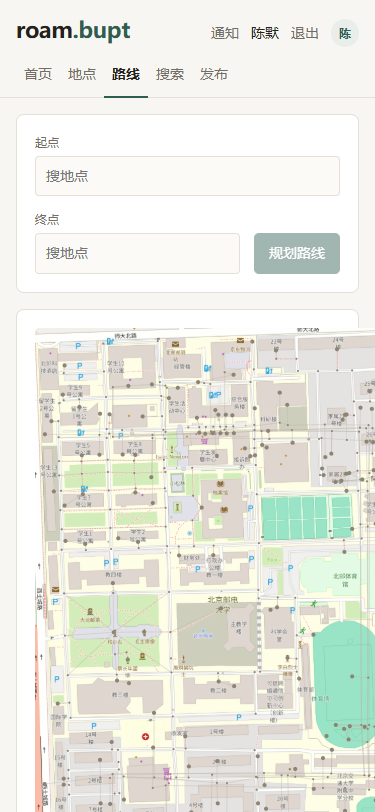
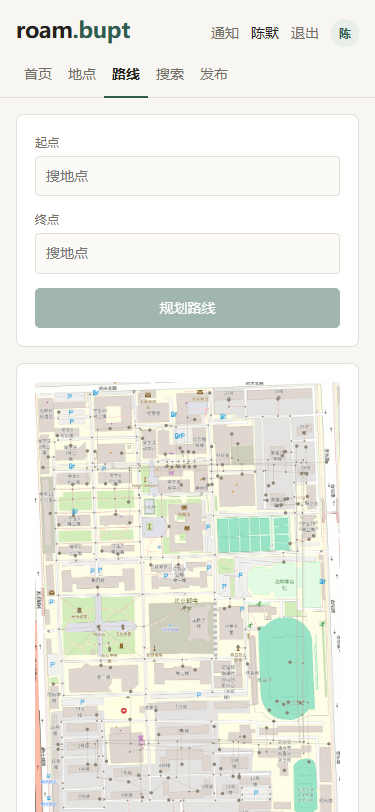
docs: 走查与测试记录 + 3 条待办
两个子代理（用户视角、测试视角）的发现按等级归档，标注已修/未修与验证证据；
未修项进实现清单 R9–R11。

diff --git a/docs/走查与测试记录.md b/docs/走查与测试记录.md
@@ -1,0 +1,61 @@
+# 走查与测试记录（2026-11-23）
+
+两个独立视角在 VM 部署环境（`d7a6987`）上做的走查与测试，以及之后的修复。
+
+## 一、测试人员（bug-hunter）发现
+
+| 等级 | 问题 | 状态 |
+|---|---|---|
+| high | 登录限流可用 `X-Forwarded-For` 绕过（nginx 追加、backend 直连可伪造） | ✅ 已修：nginx 覆盖 XFF；backend 不再对外发布端口 |
+| medium | 作者看自己的待审帖，点赞/评论/路线报「帖子不存在」 | ✅ 已修：路线接口对作者放行；页面隐藏互动入口并提示「审核中」 |
+| medium | 挂 7–9 个地点的帖子，路线必然 400（发帖上限 9、寻路上限 6） | ✅ 已修：寻路上限统一为 9 |
+| medium | DRAFT 草稿卡死：不能发布、不能删除 | ✅ 已修：状态机允许 DRAFT→PENDING/ONLINE/DELETED |
+| medium | `GET /posts/abc`、未知接口、缺参数统一 500 | ✅ 已修：分别映射为 400/404/405 |
+| low | 正文 48KB 与 20001 字契约不一致；校验文案英文 | ⬜ 未修（列入待办） |
+| low | 浏览数恒 0 | ✅ 已修：详情自增、列表批量读 |
+| low | 搜索页不读取 URL 的 q，链接不可分享 | ✅ 已修：从 query 初始化并回写 URL |
+
+正常项（抽测 110 次请求 + 12 个页面）：未登录写接口 401、假/登出 token 401、普通用户调后台 403、删他人评论 403、封禁用户 401、各类超长与非法参数被拒、分类打分 404、重复点赞幂等、并发同名注册仅 1 成功、搜索与 XSS 已转义、非图片/伪造类型/超 5MB 上传被拒、写操作第 31 次 429。
+
+## 二、体验走查（ux-explorer）发现
+
+| 等级 | 问题 | 状态 |
+|---|---|---|
+| 阻断 | 「按这个顺序走」在线上报「帖子不存在」 | ✅ 已修（同 bug-hunter 第 2 条） |
+| 阻断 | 新帖审核期间首页/地点页/搜索都看不到，像没发出去 | ✅ 部分修：详情页提示「审核中」；**审核通过前不进入列表属于设计**，但演示需说明 |
+| 阻断 | 禁用按钮看起来和可用一样 | ✅ 已修：禁用态 opacity |
+| 困惑 | 「3.51 人评分」分不清分数与人数 | ✅ 已修：显示「3.5 分 · 1 人评分」 |
+| 困惑 | 地点列表全写「暂无评分」，点进去有分 | ✅ 已修：列表批量带出评分 |
+| 困惑 | 刚发的帖显示「今天 03:09」 | ✅ 已修：容器时区改 Asia/Shanghai（原来 UTC，差 8 小时） |
+| 困惑 | 路线页输入后回车不能选，按钮一直灰着 | ⬜ 未修（待办） |
+| 困惑 | 顶栏点自己名字没反应 | ⬜ 未修（待办） |
+| 困惑 | 路线方案每步都是「路口 → 路口」 | ⬜ 未修（数据层节点名如此，待优化） |
+| 困惑 | 448 米方案排在 434 米前面（按权重而非距离排） | ⬜ 未修（按设计是按权重排序，文案待说明） |
+| 小瑕疵 | 375 宽度路线页横向溢出 39px | ✅ 已修：媒体查询真正生效后归零 |
+| 小瑕疵 | 分类筛选后 URL 不变 | ✅ 已修（地点列表页用 query 驱动） |
+
+## 三、验证证据（修复后）
+
+```
+18080 直连           已关闭（只剩 nginx 18081）✓
+新帖 createdTime     2026-11-23T11:52:39（北京时间）✓
+作者看待审帖路线      200；他人 404 ✓
+/posts/abc            400 ✓
+地点列表评分          教三楼 3.8 分 ✓
+浏览量                1 → 4 ✓
+伪造 XFF 连错 6 次    第 6 次起 429 ✓
+375 宽度溢出          0px ✓
+待审帖页面            提示 1 处、互动区 0 处 ✓
+控制台                无报错 ✓
+```
+
+截图：`frontend/docs/shots/fix/`（`pending-author.png`、`topics-rating.png`、`home.png`、`mobile-nav.png`）、
+`frontend/docs/shots/ux/`、`frontend/docs/shots/qa/`。
+
+## 四、未修的待办
+
+见 `docs/实现清单.md` 的 R9–R11：
+
+- 路线页回车选择与按钮可用性提示；
+- 占位文案统一（「P1 上线」换成用户能懂的话）、收藏入口；
+- 路线方案排序说明与「路口」节点命名。

diff --git a/docs/实现清单.md b/docs/实现清单.md
@@ -58,6 +58,10 @@
 | Q5 | 部署与回滚清单 | ✅ | B8 | — | 写在 `docs/部署与回滚.md`：环境变量、启动顺序、验证命令、升级、回滚、备份、常见问题 | 手测：数据回滚 24→19→24；配置回滚（坏 JWT → Exited(1) → 恢复后 healthy）；镜像回滚因 DNS 故障未演练（已记录） | 待建 |
 | D4 | 演示材料 | ✅ | B8 | 全部 | `docs/演示脚本.md`：九段流程 + 生产审核提示 + 备用问答；截图集 `frontend/docs/shots/demo/` | 浏览器：九段全走通（发帖→审核→搜索→路线→通知→关注），九张截图，`consoleErrors=[]` | 待建 |
 
+| R9 | 路线页交互 | ⬜ | B10 | R7 | 输入框回车选中第一个联想项；按钮禁用时说明还缺什么 | 浏览器：输入地点名直接回车即可规划 | [space](域设计-space.md) |
+| R10 | 占位文案与收藏入口 | ⬜ | B10 | — | 禁用控件的 title 从「P1 上线」改成人话；增加「我的收藏」入口（接口已有 user_foot，缺列表页） | 浏览器：禁用项看得懂为什么不能点 | [前端约定](前端约定.md) |
+| R11 | 路线可读性 | ⬜ | B10 | R7 | 方案卡片标注排序依据（时间/距离）；交叉口节点用「近某楼」命名或在分段里合并连续路口 | 浏览器：方案之间差异一眼可见 | [space](域设计-space.md) |
+
 ## 三、明确不做（记录在此，避免反复讨论）
 
 | 项 | 原因 |
